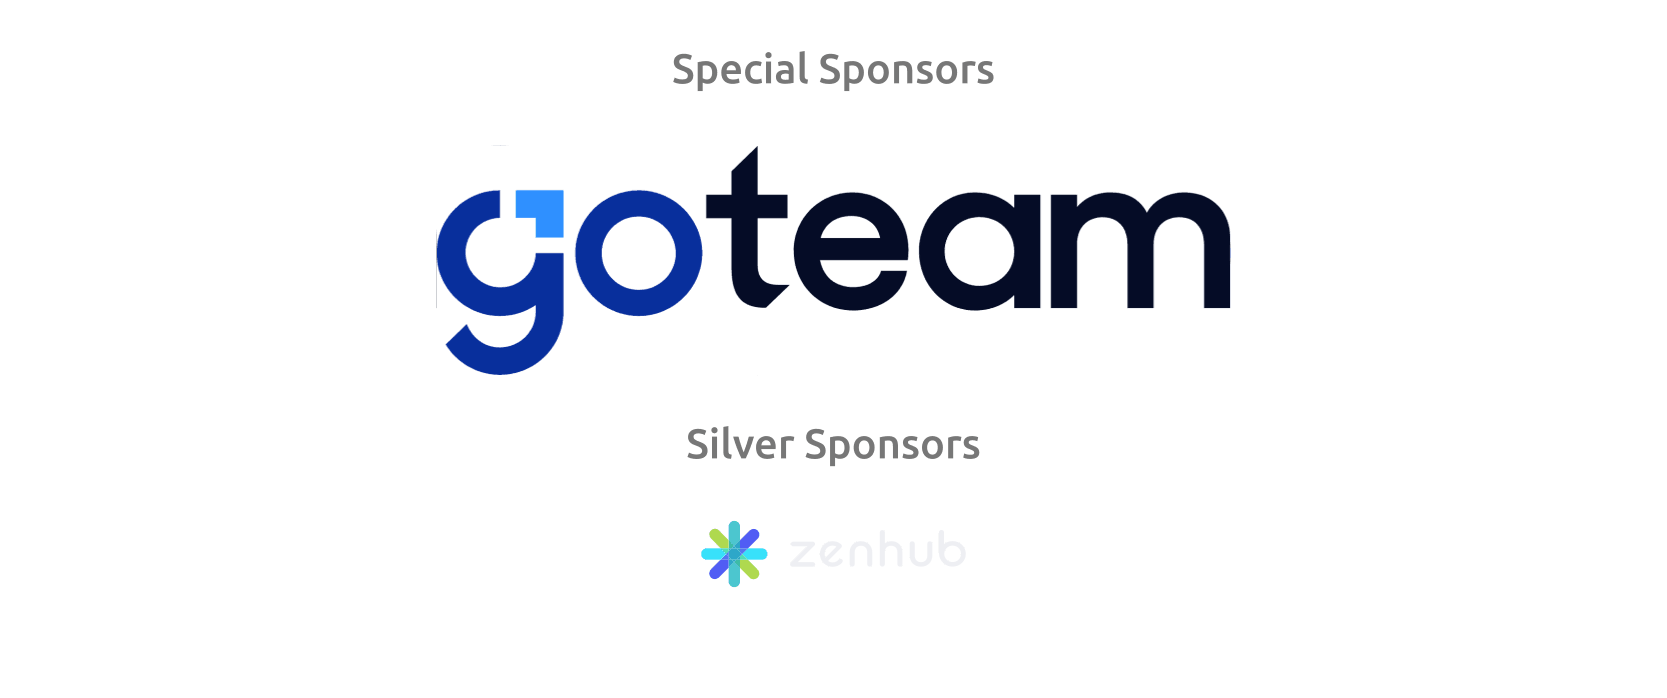
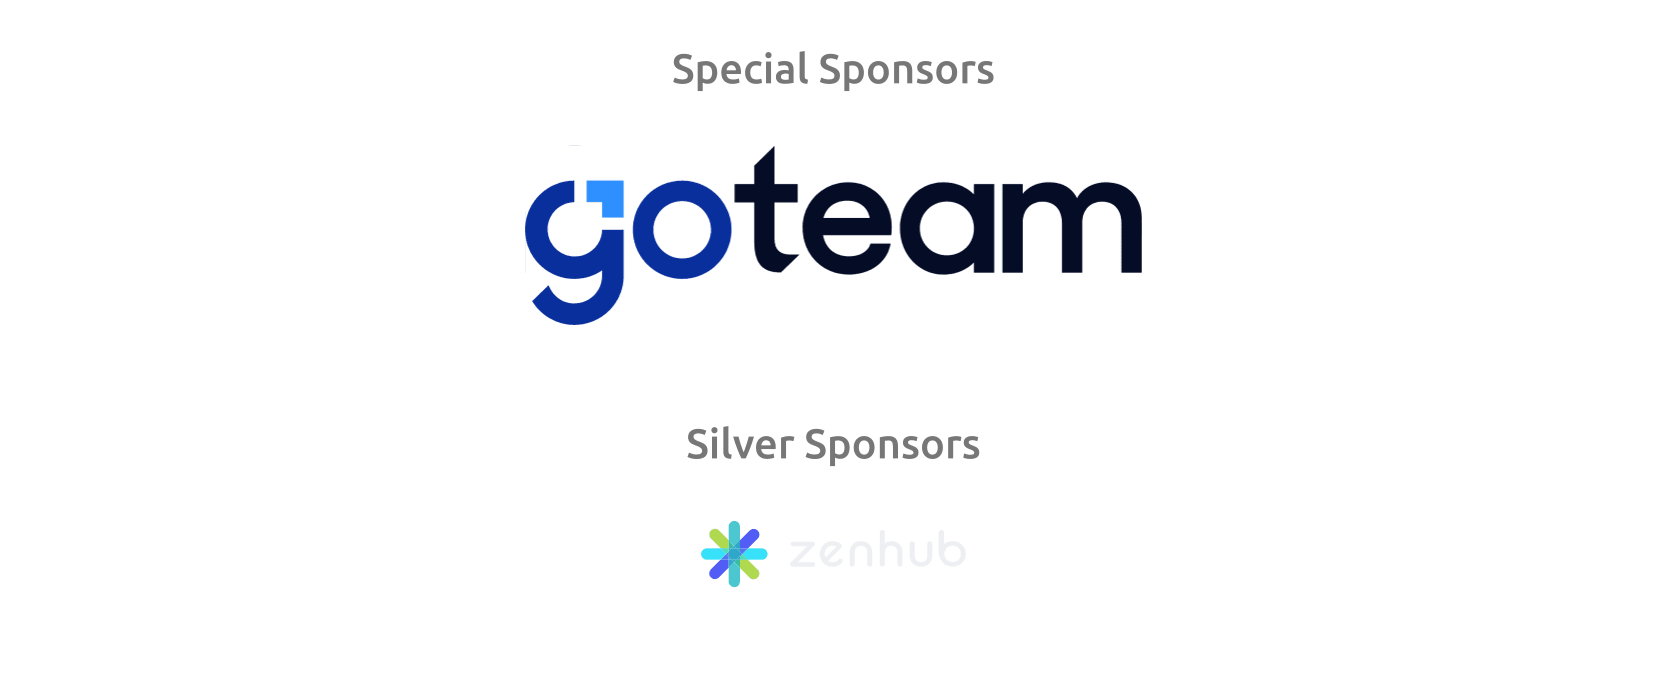
chore: update size

Changed region(s): [[0.2496, 0.2106, 0.7487, 0.5415]]

diff --git a/sponsor.config.ts b/sponsor.config.ts
@@ -8,8 +8,8 @@ const ZENHUB_LOGO = (width: number, y: number) => `
 
 const GOTEAM_LOGO = (width: number, y: number) => `
 <a xlink:href="https://go.team/" class="sponsorkit-link" target="_blank" id="GoTeam">
-<svg  x="${(width - 381) / 2}" y="${y}" width="381" height="110" viewBox="0 0 381 110" fill="none" xmlns="http://www.w3.org/2000/svg" xmlns:xlink="http://www.w3.org/1999/xlink">
-<rect width="381" height="110" fill="url(#pattern0)"/>
+<svg  x="${(width - 296) / 2}" y="${y}" width="296" height="86" viewBox="0 0 296 86" fill="none" xmlns="http://www.w3.org/2000/svg" xmlns:xlink="http://www.w3.org/1999/xlink">
+<rect width="296" height="86" fill="url(#pattern0)"/>
 <defs>
 <pattern id="pattern0" patternContentUnits="objectBoundingBox" width="1" height="1">
 <use xlink:href="#image0_2_2" transform="scale(0.000626852 0.00215054)"/>
